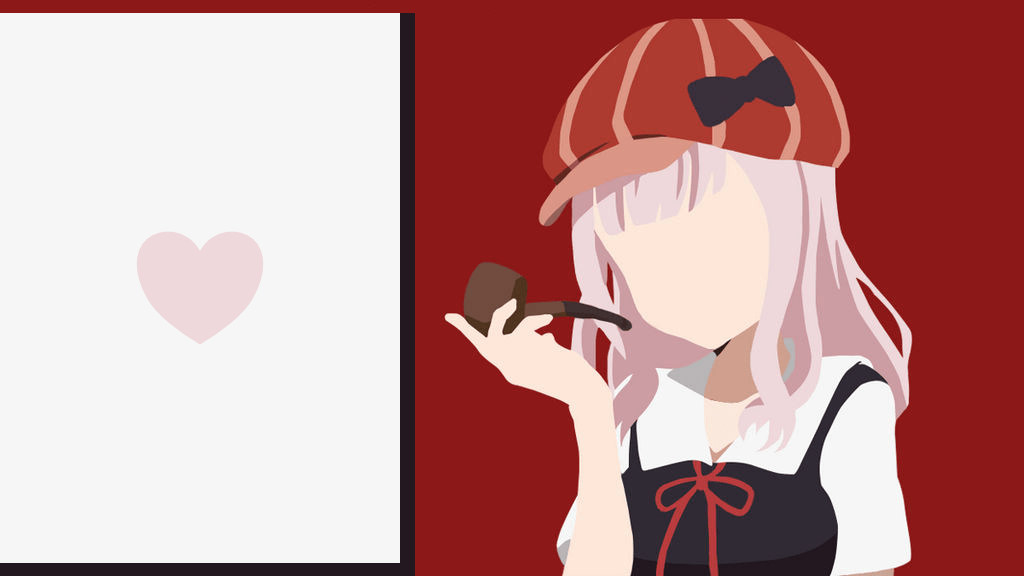
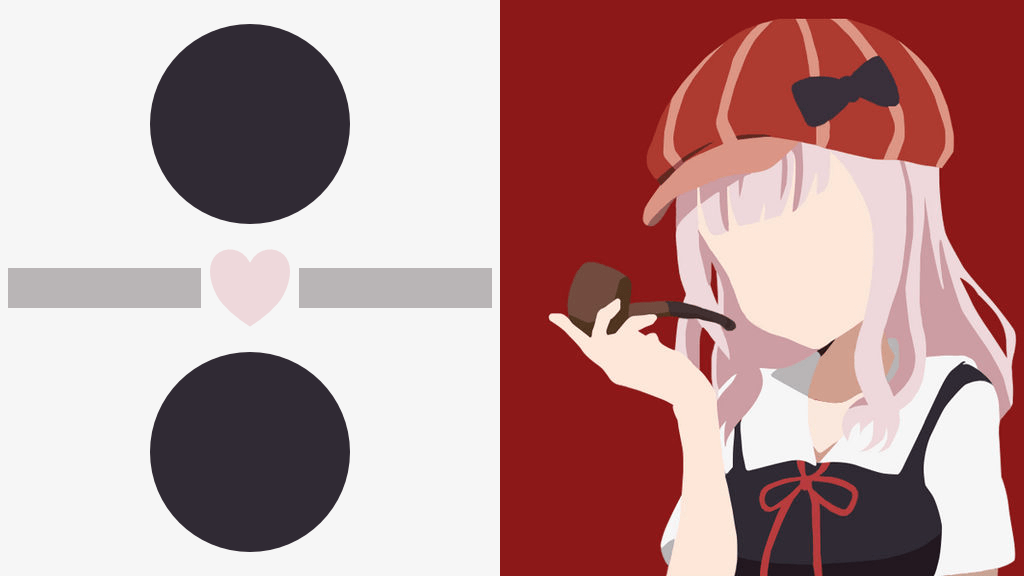
Fixed alignment of pictures and text

diff --git a/cogs/Profile.py b/cogs/Profile.py
@@ -17,9 +17,7 @@ def circle(pfp,size = (500,500)):
     mask = ImageChops.darker(mask, pfp.split()[-1])
     pfp.putalpha(mask)
     return pfp
-
-
-
+  
 class Profile(commands.Cog):
   
   def __init__(self, client):
@@ -40,7 +38,7 @@ class Profile(commands.Cog):
     base = Image.open('./Assets/profileBase.png').convert("RGBA")
     data = BytesIO(await pfp.read())
     pfp = Image.open(data).convert("RGBA")
-    name = f"{name[:16]}..." if len(name)>16 else name
+    name = f"{name[:12]}..." if len(name)>12 else name
     draw = ImageDraw.Draw(base)
     pfp = circle(pfp, size=(500,500))
     font = ImageFont.truetype("./Assets/openSans.ttf", 75)
@@ -72,22 +70,21 @@ class Profile(commands.Cog):
       targ2Pfp = Image.open(data).convert("RGBA")
       data = BytesIO(await targ1Pfp.read())
       targ1Pfp = Image.open(data).convert("RGBA")
-      targ2Name = f"{targ2Name[:16]}..." if len(targ2Name)>16 else targ2Name
-      targ1Name = f"{targ1Name[:16]}..." if len(targ1Name)>16 else targ1Name
+      targ2Name = f"{targ2Name[:10]}..." if len(targ2Name)>10 else targ2Name
+      targ1Name = f"{targ1Name[:10]}..." if len(targ1Name)>10 else targ1Name
       draw = ImageDraw.Draw(base)
-      targ2Pfp = circle(targ2Pfp, size=(150,150))
-      targ1Pfp = circle(targ1Pfp, size=(150,150))
-      W = 375
-      H = 550
-      w, h = draw.textsize(targ2Name)
-      w2, h2 = draw.textsize(targ1Name)
-      w3, h3 = draw.textsize(amount)
+      targ2Pfp = circle(targ2Pfp, size=(200,200))
+      targ1Pfp = circle(targ1Pfp, size=(200,200))
+      W = 500
       font = ImageFont.truetype("./Assets/openSans.ttf", 25)
-      draw.text(((W-w)/2,(H-h)/2-75), targ2Name, fill="black", font=font)
-      draw.text(((W-w2)/2,(H-h2)/2+75), targ1Name, fill="black", font=font)
-      draw.text(((W-w3)/2,(H-h3)/2), amount, fill="black", font=font)
-      base.paste(targ2Pfp,(137,15),targ2Pfp)
-      base.paste(targ1Pfp,(137,400),targ1Pfp)
+      w,h = draw.textsize(targ2Name, font=font)
+      draw.text(((W-w)/2-150,268), targ2Name, fill="black", font=font)
+      w,h = draw.textsize(targ1Name, font=font)
+      draw.text(((W-w)/2+150,268), targ1Name, fill="black", font=font)
+      w,h = draw.textsize(amount, font=font)
+      draw.text(((W-w)/2,268), amount, fill="black", font=font)
+      base.paste(targ2Pfp,(150,24),targ2Pfp)
+      base.paste(targ1Pfp,(150,352),targ1Pfp)
 
       with BytesIO() as a:
         base.save(a, "PNG")
